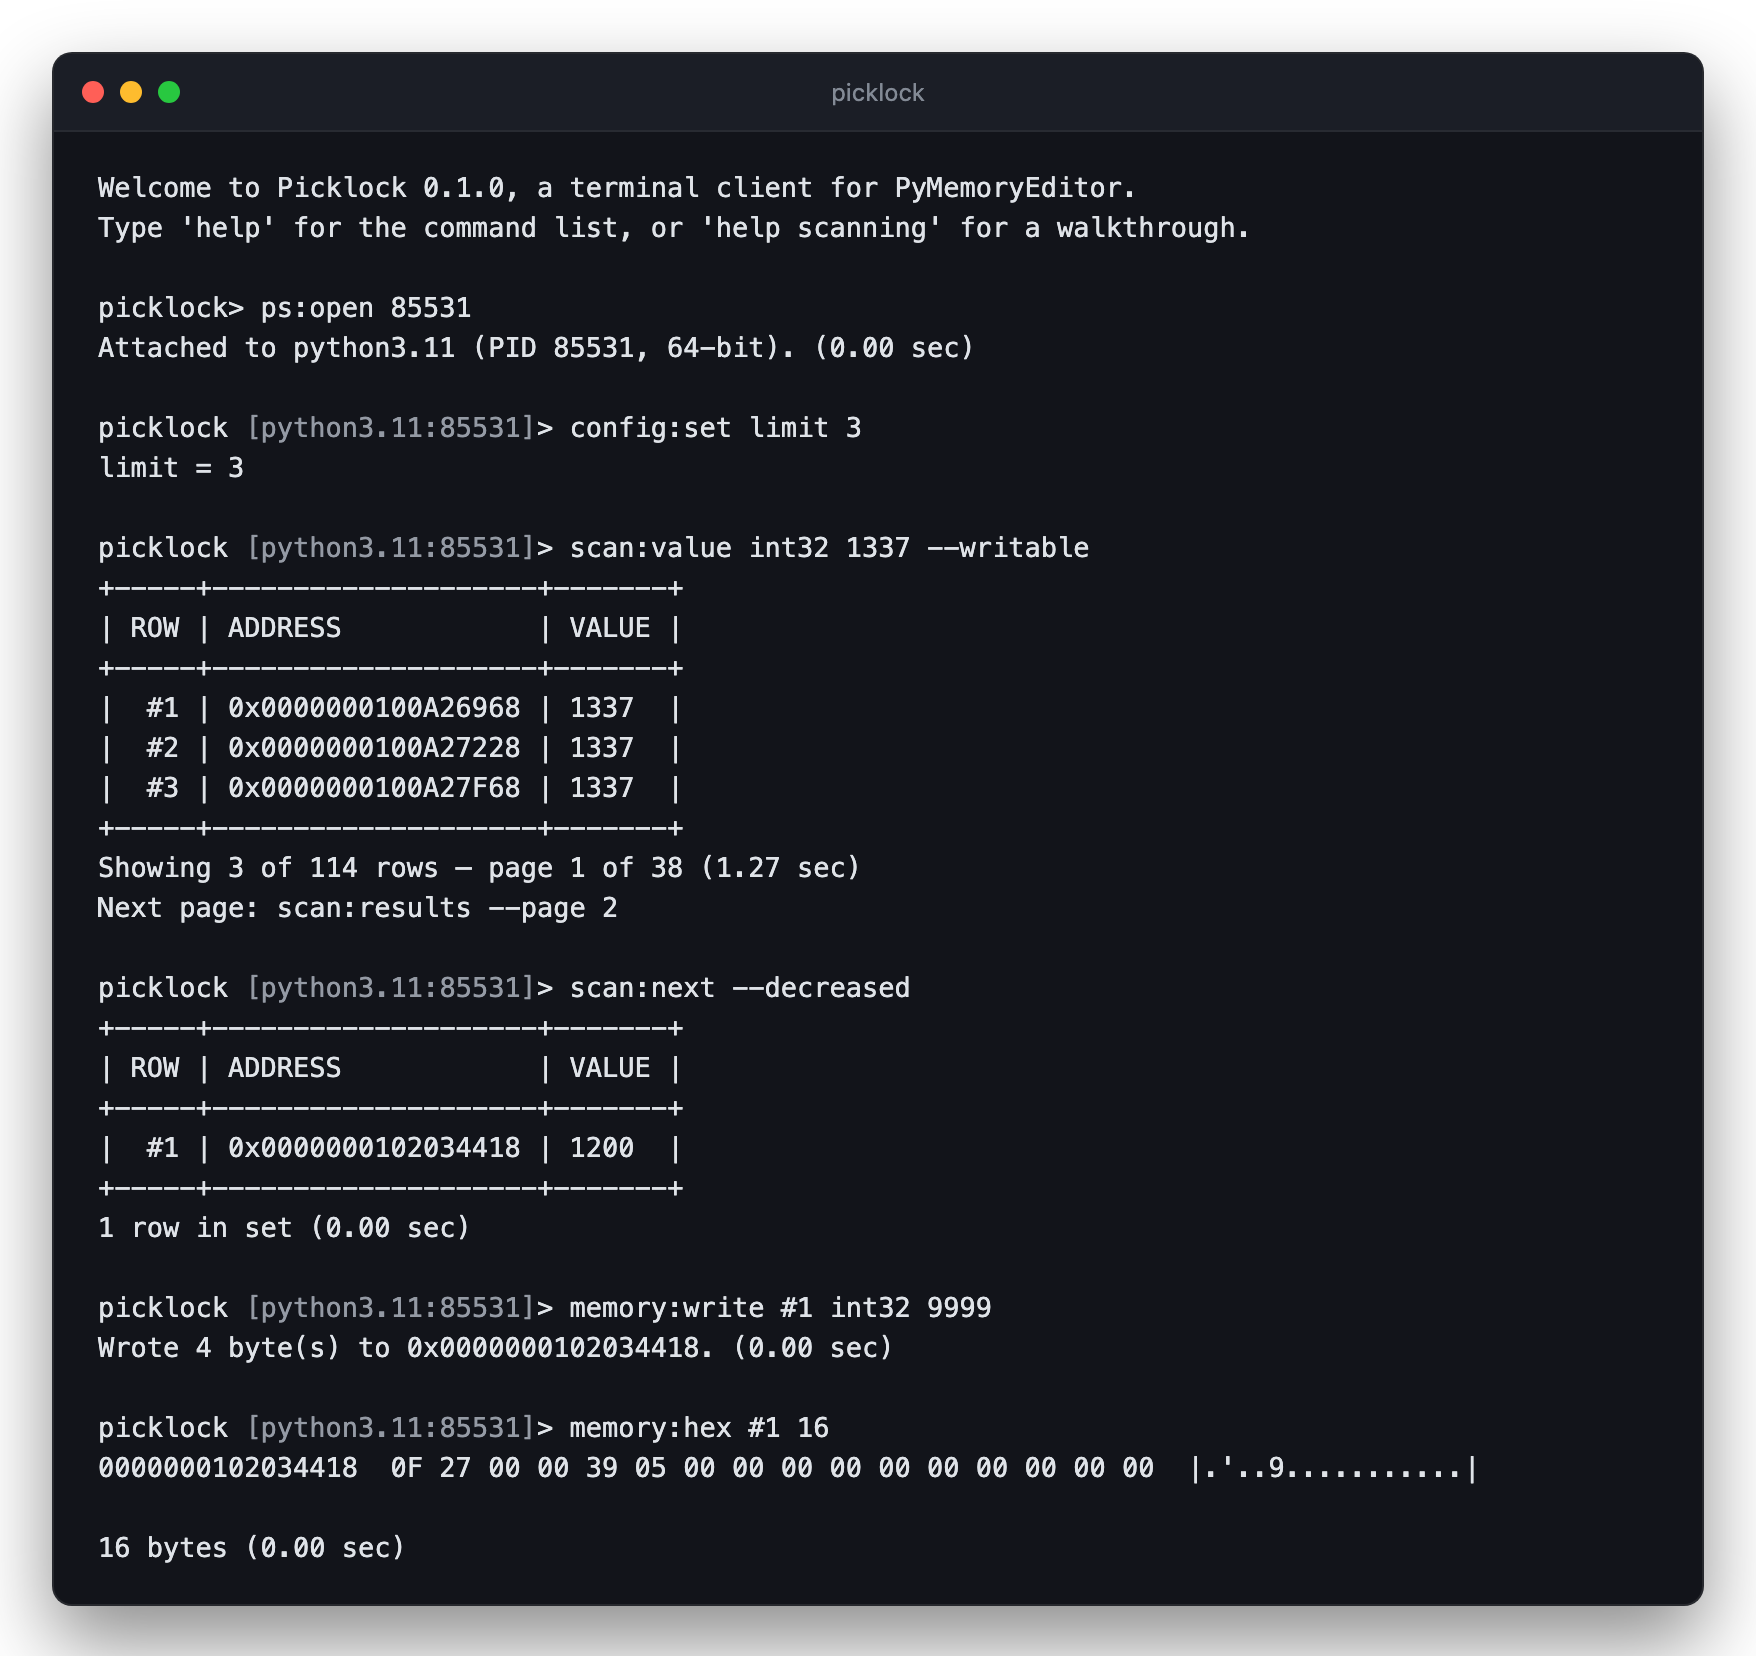
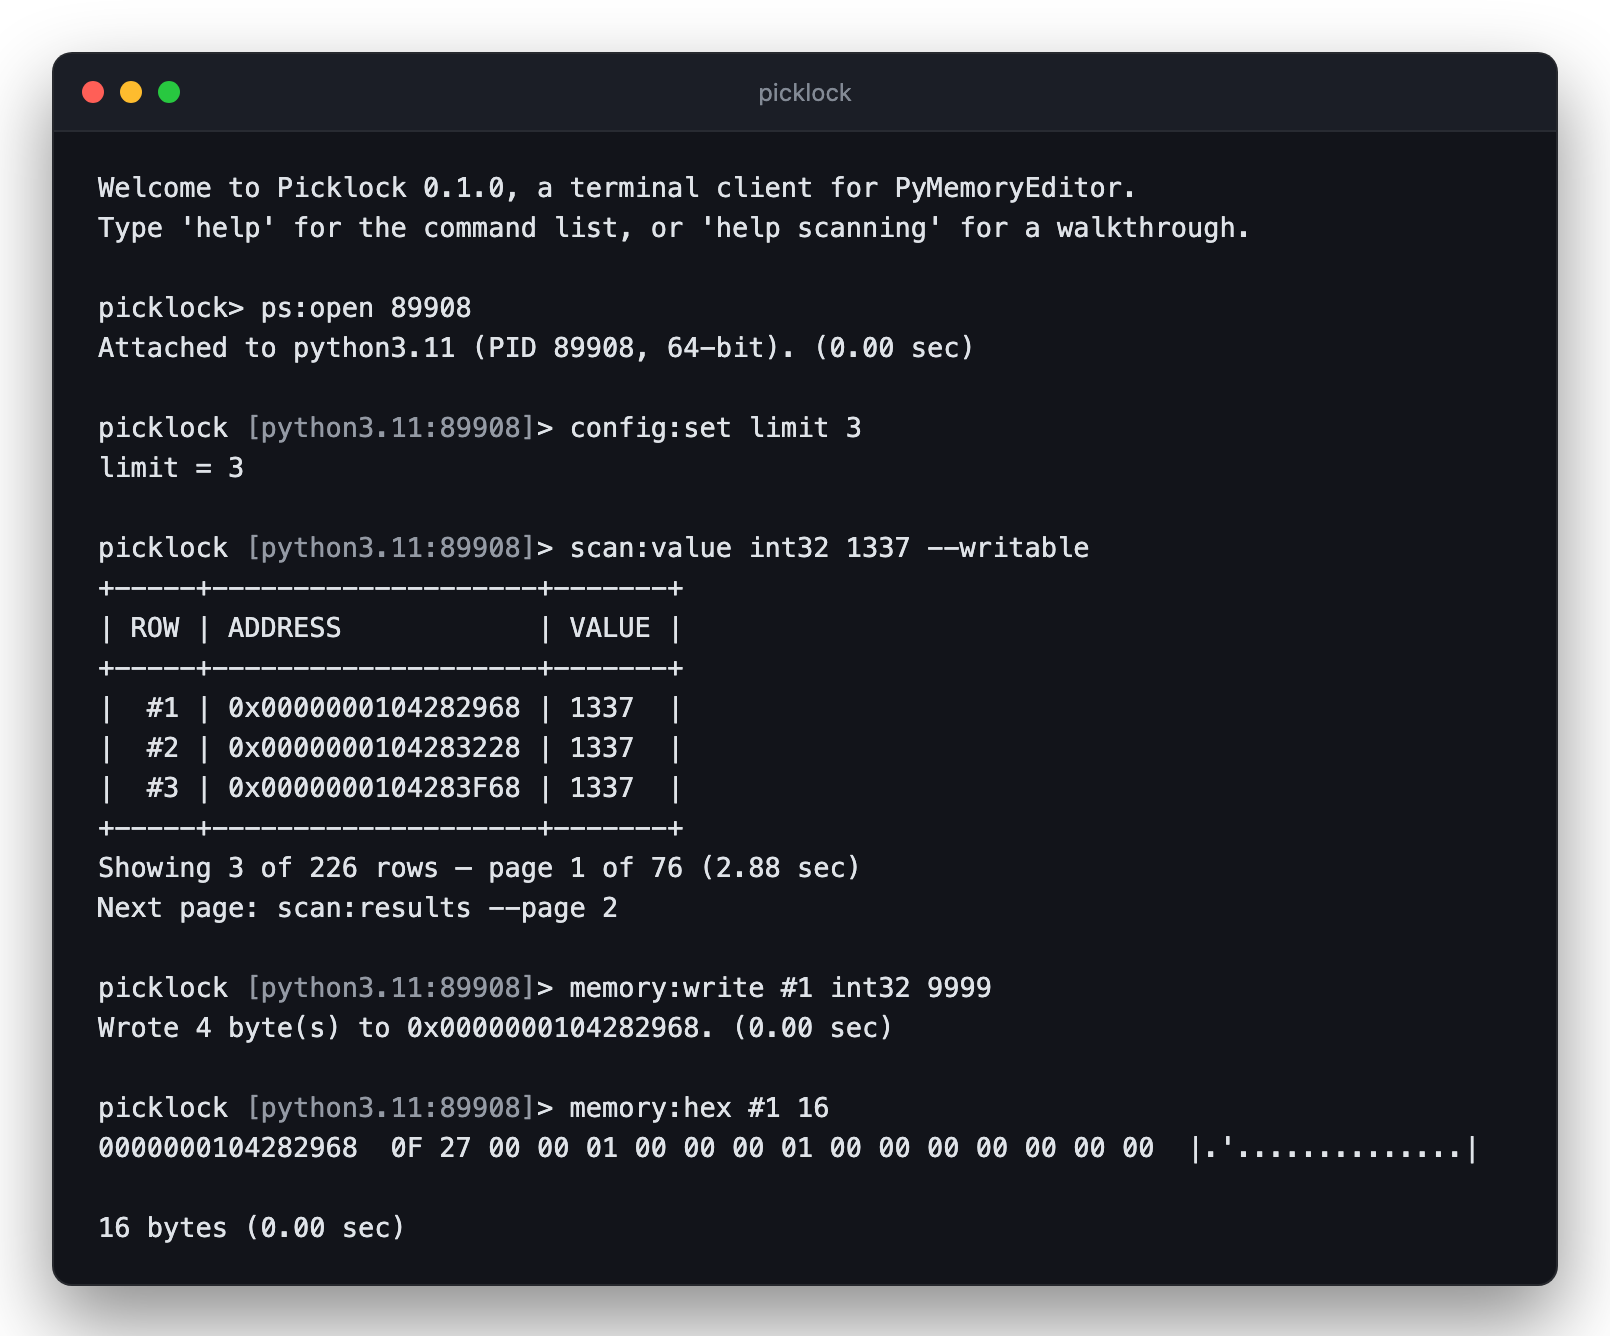
docs: shorten the terminal capture
Drop the 'scan:next --decreased' step. It cost eight lines — a second table
and its footer — and the picture was taller than a README wants to be.

The write now lands on the first row the value scan returned, which is the
more ordinary thing to do with a fresh result set, and the hexdump still
proves it: the range opens 0F 27, little-endian for the 9999 the line above
wrote. The planted value stays, since the scan needs something to find; what
goes is the mutation that only the refine step observed.

diff --git a/scripts/generate_terminal_image.py b/scripts/generate_terminal_image.py
@@ -12,11 +12,10 @@ program to launch — and records exactly what a user would have seen, escape
 codes included. The addresses, the row counts and the timings in the picture
 are whatever that run produced.
 
-The scan story it stages is real too: a value is planted in this process's
-memory, scanned for, then *changed* between the two scans, so the
-``--decreased`` refinement narrows a few hundred candidates to the one
-address that actually moved. That is the loop the README describes, executed rather than
-illustrated.
+The scan it stages is real too: a value is planted in this process's memory,
+scanned for across the writable regions, and the first address that comes
+back is then written to and read again as hex. Nothing is arranged so that
+the numbers agree — they agree because the commands ran.
 
 The transcript is then rendered as HTML and screenshotted with headless
 Chrome, the same way ``build_preview.py`` does it in PyMemoryEditor.
@@ -56,10 +55,11 @@ sys.path.insert(0, str(REPO_ROOT))
 
 from picklock.shell import Shell  # noqa: E402  (must follow the env var above)
 
-#: The value planted in this process, and what it drops to before the refine.
-#: Both are arbitrary; what matters is that the second is smaller.
+#: The value planted in this process for the scan to find. Arbitrary, and
+#: ordinary enough in a live interpreter that the scan comes back with a few
+#: hundred candidates — which is the honest picture: a first scan narrows the
+#: field, it does not identify anything.
 HEALTH = 1337
-DAMAGED = 1200
 
 
 # -- the staged process ---------------------------------------------------
@@ -76,8 +76,10 @@ class Target:
         self.health = (ctypes.c_int32 * 4)(HEALTH, HEALTH, 0, 0)
         self.name = ctypes.create_string_buffer(b"PicklockDemo\x00")
 
-    def take_damage(self) -> None:
-        self.health[0] = DAMAGED
+    @property
+    def value(self) -> int:
+        """What the demo scans for — read back from the memory it planted."""
+        return int(self.health[0])
 
 
 # -- recording ------------------------------------------------------------
@@ -99,16 +101,15 @@ def record() -> List[str]:
 
     pid = os.getpid()
 
-    #: (line, hook) — the hook runs *before* the line, so the process really
-    #: has changed by the time the command that notices it runs. The display
+    #: (line, hook) — a hook runs *before* its line, for a step that needs the
+    #: process to have changed by the time the command looks. The display
     #: limit is turned down so the first scan's table stays a sample rather
     #: than twenty rows of the same number; the footer still reports the true
     #: total, and turning it down is itself a command worth showing.
     script: List[Tuple[str, object]] = [
         (f"ps:open {pid}", None),
         ("config:set limit 3", None),
-        (f"scan:value int32 {HEALTH} --writable", None),
-        ("scan:next --decreased", target.take_damage),
+        (f"scan:value int32 {target.value} --writable", None),
         ("memory:write #1 int32 9999", None),
         ("memory:hex #1 16", None),
     ]
